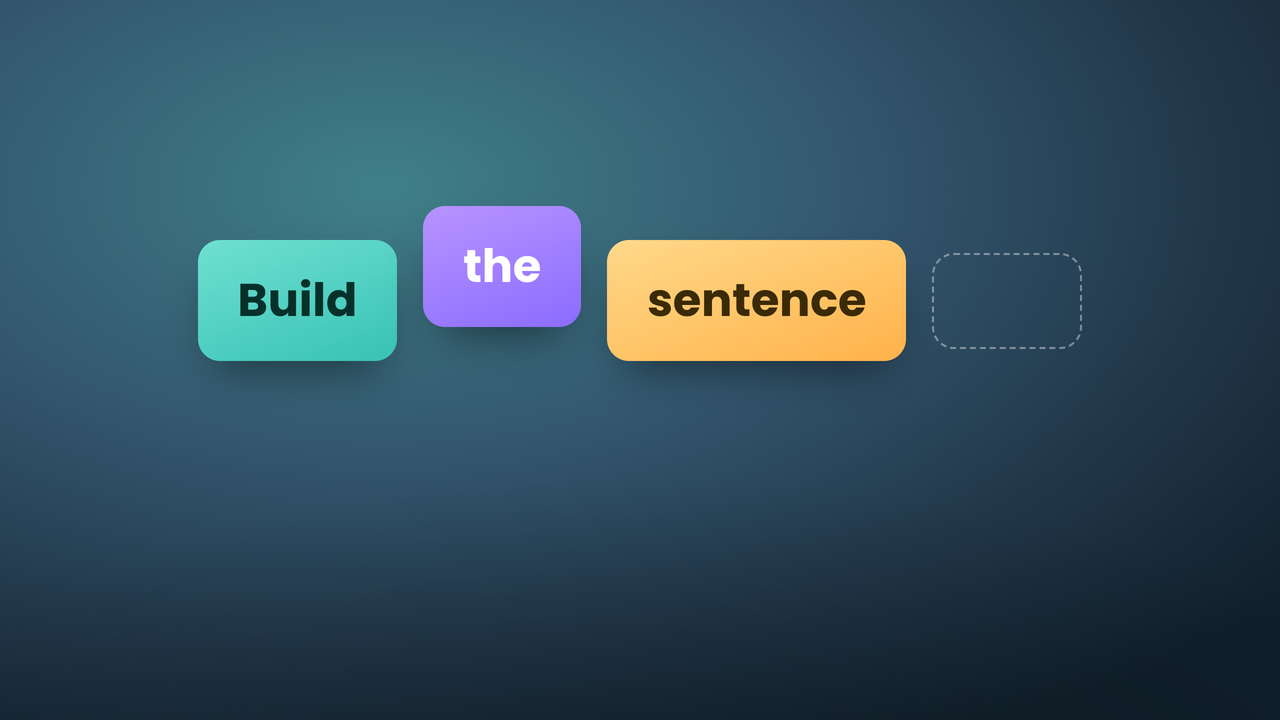
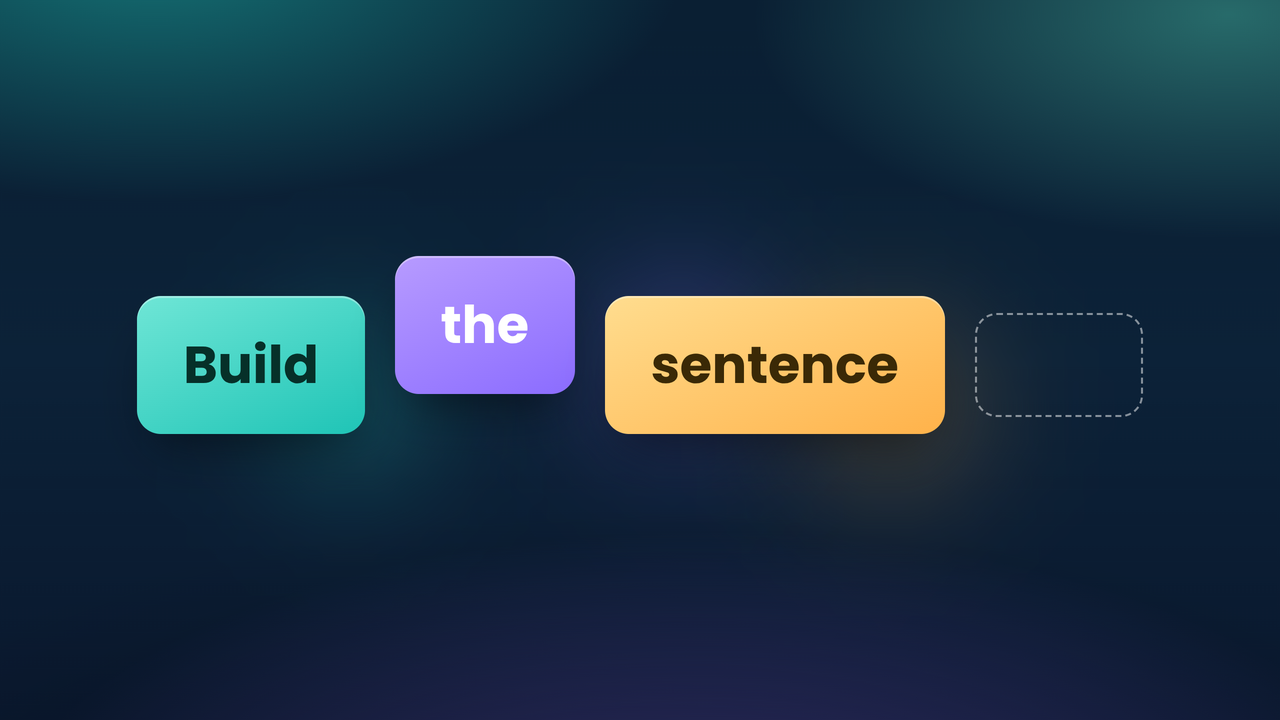
style(arcade): refresh Story Unlock & Sentence Builder — drifting aurora, elevated glass, color-coded chips + new covers

diff --git a/games/sentence-builder/index.html b/games/sentence-builder/index.html
@@ -12,7 +12,7 @@
 <link href="https://api.fontshare.com/v2/css?f[]=clash-display@600,700&f[]=general-sans@400,500,600&display=swap" rel="stylesheet">
 <style>
   :root{
-    --space:#061714; --ink:#eafcf7; --soft:#9fd0c6;
+    --space:#0a1226; --ink:#eafcf7; --soft:#9fd0c6;
     --pink:#f6479a; --coral:#ff8a63; --purple:#8b6cff; --teal:#1fc4b6; --mint:#57e6c4; --amber:#ffcd46;
     --glass:rgba(255,255,255,.07); --line:rgba(255,255,255,.14);
     --display:'Clash Display',system-ui,sans-serif; --body:'General Sans',system-ui,sans-serif;
@@ -20,11 +20,19 @@
   *{box-sizing:border-box}
   html,body{margin:0;height:100%}
   body{font-family:var(--body);color:var(--ink);background:var(--space);overflow-x:hidden;-webkit-tap-highlight-color:transparent}
-  #stagebg{position:fixed;inset:0;z-index:-1;background:
-    radial-gradient(110% 70% at 14% 2%, rgba(31,196,182,.24), transparent 56%),
-    radial-gradient(90% 70% at 92% 4%, rgba(87,230,196,.16), transparent 58%),
-    radial-gradient(80% 60% at 60% 104%, rgba(139,108,255,.18), transparent 66%),
-    linear-gradient(180deg,#06160f 0%,#0a241d 54%,#0c2a26 100%)}
+  #stagebg{position:fixed;inset:0;z-index:-1;overflow:hidden;background:
+    radial-gradient(80% 60% at 10% -6%, rgba(31,196,182,.40), transparent 60%),
+    radial-gradient(70% 56% at 96% 4%, rgba(87,230,196,.28), transparent 60%),
+    radial-gradient(92% 70% at 52% 114%, rgba(139,108,255,.26), transparent 66%),
+    radial-gradient(58% 50% at 82% 94%, rgba(77,139,255,.22), transparent 60%),
+    linear-gradient(180deg,#08152c 0%,#0a1f30 50%,#08152a 100%)}
+  #stagebg::before{content:"";position:absolute;inset:-25%;pointer-events:none;
+    background:
+      radial-gradient(38% 38% at 30% 32%, rgba(31,196,182,.32), transparent 62%),
+      radial-gradient(34% 34% at 72% 58%, rgba(87,230,196,.22), transparent 62%),
+      radial-gradient(34% 34% at 54% 82%, rgba(139,108,255,.22), transparent 62%);
+    filter:blur(44px);animation:aurora 30s ease-in-out infinite alternate}
+  @keyframes aurora{from{transform:translate3d(-3%,-2%,0) rotate(0deg) scale(1.06)}to{transform:translate3d(3%,2%,0) rotate(7deg) scale(1.14)}}
   .wrap{max-width:860px;margin:0 auto;padding:14px 18px 60px;min-height:100%}
   .bar{display:flex;align-items:center;gap:12px;justify-content:space-between;padding:6px 2px 14px}
   .bar .left{display:flex;align-items:center;gap:12px;min-width:0}
@@ -49,25 +57,26 @@
   .dot.done{background:var(--teal)}
   .dot.cur{background:var(--amber);box-shadow:0 0 0 4px rgba(255,205,70,.18)}
 
-  .card{background:rgba(255,255,255,.05);border:1px solid var(--line);border-radius:24px;padding:26px 22px;backdrop-filter:blur(10px);
-    box-shadow:0 30px 70px -30px rgba(0,0,0,.7);max-width:720px;margin:0 auto}
+  .card{background:linear-gradient(180deg,rgba(255,255,255,.09),rgba(255,255,255,.035));border:1px solid rgba(255,255,255,.16);border-radius:26px;padding:26px 22px;backdrop-filter:blur(16px) saturate(1.15);
+    box-shadow:0 36px 90px -36px rgba(0,0,0,.72),0 22px 60px -42px color-mix(in srgb,var(--accent,#1fc4b6) 55%, transparent),inset 0 1px 0 rgba(255,255,255,.2);max-width:720px;margin:0 auto}
   .hint{text-align:center;color:var(--soft);font-size:14px;margin:0 0 16px}
-  .hint b{color:#fff;background:rgba(31,196,182,.18);border:1px solid rgba(31,196,182,.45);padding:3px 11px;border-radius:999px;font-family:var(--display);font-weight:700;white-space:nowrap}
+  .hint b{color:#fff;background:color-mix(in srgb,var(--accent,#1fc4b6) 22%, transparent);border:1px solid color-mix(in srgb,var(--accent,#1fc4b6) 55%, transparent);padding:3px 11px;border-radius:999px;font-family:var(--display);font-weight:700;white-space:nowrap}
 
-  .tray{min-height:78px;border:2px dashed var(--line);border-radius:18px;padding:14px;display:flex;flex-wrap:wrap;gap:10px;
-    align-items:center;justify-content:center;background:rgba(0,0,0,.16);transition:border-color .2s}
-  .tray.has{border-style:solid;border-color:rgba(31,196,182,.4)}
+  .tray{min-height:78px;border:2px dashed color-mix(in srgb,var(--accent,#1fc4b6) 30%, rgba(255,255,255,.16));border-radius:18px;padding:14px;display:flex;flex-wrap:wrap;gap:10px;
+    align-items:center;justify-content:center;background:rgba(4,8,20,.28);transition:border-color .2s}
+  .tray.has{border-style:solid;border-color:color-mix(in srgb,var(--accent,#1fc4b6) 55%, transparent)}
   .tray .ph{color:var(--soft);font-size:14px;opacity:.8}
   .tray.flash-bad{animation:shake .4s}
 
   .bank{display:flex;flex-wrap:wrap;gap:10px;justify-content:center;margin:18px auto 0;max-width:720px;min-height:50px}
 
   .chip{appearance:none;cursor:pointer;font-family:var(--display);font-weight:700;font-size:clamp(15px,3.6vw,18px);
-    padding:11px 16px;border-radius:14px;color:#fff;background:rgba(255,255,255,.08);border:1.5px solid var(--line);
-    box-shadow:0 8px 18px -12px rgba(0,0,0,.6);transition:transform .12s,background .15s,border-color .15s,opacity .12s}
-  .chip:hover{transform:translateY(-2px)}
+    padding:11px 16px;border-radius:14px;color:#fff;background:rgba(31,196,182,.26);border:1.5px solid rgba(255,255,255,.28);border:1.5px solid color-mix(in srgb,var(--accent,#1fc4b6) 55%, transparent);
+    background:linear-gradient(160deg,color-mix(in srgb,var(--accent,#1fc4b6) 34%, transparent),color-mix(in srgb,var(--accent,#1fc4b6) 12%, transparent));
+    box-shadow:0 10px 22px -14px color-mix(in srgb,var(--accent,#1fc4b6) 75%, transparent),inset 0 1px 0 rgba(255,255,255,.22);transition:transform .12s,background .15s,border-color .15s,opacity .12s}
+  .chip:hover{transform:translateY(-2px);background:linear-gradient(160deg,color-mix(in srgb,var(--accent,#1fc4b6) 48%, transparent),color-mix(in srgb,var(--accent,#1fc4b6) 20%, transparent))}
   .chip:active{transform:translateY(0)}
-  .tray .chip{border-color:rgba(255,255,255,.28)}
+  .tray .chip{border-color:color-mix(in srgb,var(--accent,#1fc4b6) 70%, transparent)}
   .chip.right{color:#06201b;border-color:transparent}
   .chip.wrong{animation:shake .4s;border-color:#ff6b6b}
   @keyframes shake{0%,100%{transform:translateX(0)}25%{transform:translateX(-6px)}75%{transform:translateX(6px)}}
@@ -106,7 +115,7 @@
   .again a,.again button{font:inherit;font-weight:700;font-size:14px;border-radius:999px;padding:11px 20px;cursor:pointer;text-decoration:none}
   .again .pri{background:linear-gradient(135deg,var(--teal),var(--mint));color:#06201b;border:0}
   .again .sec{background:var(--glass);border:1px solid var(--line);color:var(--ink)}
-  @media(prefers-reduced-motion:reduce){.chip.wrong,.tray.flash-bad{animation:none}}
+  @media(prefers-reduced-motion:reduce){.chip.wrong,.tray.flash-bad{animation:none}#stagebg::before{animation:none}}
   @media(max-width:380px){.wrap{padding:12px 12px 52px}.card{padding:20px 14px}.prog{gap:7px}}
   .card.result{position:relative;z-index:60;text-align:center}
   .card .rk{font-family:var(--display);font-weight:700;font-size:clamp(22px,5vw,30px);color:var(--ink);line-height:1.08}
@@ -186,7 +195,7 @@ function renderRound(){
   $('#pRound').textContent=(idx+1)+'/'+sentences.length;
   $('#dots').innerHTML=sentences.map((_,k)=>`<span class="dot ${k<idx?'done':''} ${k===idx?'cur':''}"></span>`).join('');
   $('#game').innerHTML=`
-    <div class="card">
+    <div class="card" style="--accent:${roundColor}">
       <p class="hint">Build a sentence using <b>${esc(s.phrase)}</b></p>
       <div class="tray" id="tray"></div>
       <div class="bank" id="bank"></div>

diff --git a/games/story-unlock/index.html b/games/story-unlock/index.html
@@ -20,11 +20,19 @@
   *{box-sizing:border-box}
   html,body{margin:0;height:100%}
   body{font-family:var(--body);color:var(--ink);background:var(--space);overflow-x:hidden;-webkit-tap-highlight-color:transparent}
-  #stagebg{position:fixed;inset:0;z-index:-1;background:
-    radial-gradient(110% 70% at 14% 2%, rgba(139,108,255,.30), transparent 56%),
-    radial-gradient(90% 70% at 92% 4%, rgba(77,139,255,.20), transparent 58%),
-    radial-gradient(90% 60% at 50% 110%, rgba(246,71,154,.14), transparent 70%),
-    linear-gradient(180deg,#150b2e 0%,#1d1142 52%,#241a52 100%)}
+  #stagebg{position:fixed;inset:0;z-index:-1;overflow:hidden;background:
+    radial-gradient(78% 60% at 10% -6%, rgba(139,108,255,.42), transparent 60%),
+    radial-gradient(70% 56% at 96% 4%, rgba(246,71,154,.30), transparent 60%),
+    radial-gradient(95% 72% at 50% 114%, rgba(31,196,182,.22), transparent 66%),
+    radial-gradient(60% 52% at 82% 96%, rgba(77,139,255,.24), transparent 60%),
+    linear-gradient(180deg,#160a32 0%,#1c1142 50%,#140a30 100%)}
+  #stagebg::before{content:"";position:absolute;inset:-25%;pointer-events:none;
+    background:
+      radial-gradient(38% 38% at 30% 32%, rgba(139,108,255,.34), transparent 62%),
+      radial-gradient(34% 34% at 72% 58%, rgba(246,71,154,.24), transparent 62%),
+      radial-gradient(34% 34% at 54% 82%, rgba(31,196,182,.20), transparent 62%);
+    filter:blur(44px);animation:aurora 30s ease-in-out infinite alternate}
+  @keyframes aurora{from{transform:translate3d(-3%,-2%,0) rotate(0deg) scale(1.06)}to{transform:translate3d(3%,2%,0) rotate(7deg) scale(1.14)}}
   .wrap{max-width:820px;margin:0 auto;padding:14px 18px 60px;min-height:100%}
   .bar{display:flex;align-items:center;gap:12px;justify-content:space-between;padding:6px 2px 14px}
   .bar .left{display:flex;align-items:center;gap:12px;min-width:0}
@@ -45,12 +53,12 @@
   .pill{background:var(--glass);border:1px solid var(--line);border-radius:999px;padding:8px 15px;font-weight:600;font-size:14px;color:var(--soft)}
   .pill b{color:var(--ink);font-family:var(--display)}
 
-  .card{background:rgba(255,255,255,.05);border:1px solid var(--line);border-radius:24px;padding:30px 28px;backdrop-filter:blur(10px);
-    box-shadow:0 30px 70px -30px rgba(0,0,0,.7);max-width:680px;margin:0 auto;transition:box-shadow .5s,border-color .5s}
-  .card.unlocked{border-color:rgba(139,108,255,.5);box-shadow:0 30px 80px -26px rgba(139,108,255,.5)}
+  .card{background:linear-gradient(180deg,rgba(255,255,255,.09),rgba(255,255,255,.035));border:1px solid rgba(255,255,255,.16);border-radius:26px;padding:30px 28px;backdrop-filter:blur(16px) saturate(1.15);
+    box-shadow:0 36px 90px -36px rgba(0,0,0,.72),0 22px 60px -42px rgba(139,108,255,.55),inset 0 1px 0 rgba(255,255,255,.2);max-width:680px;margin:0 auto;transition:box-shadow .5s,border-color .5s}
+  .card.unlocked{border-color:rgba(139,108,255,.55);box-shadow:0 40px 100px -34px rgba(139,108,255,.5),inset 0 1px 0 rgba(255,255,255,.22)}
   .story{font-family:var(--display);font-weight:500;font-size:clamp(18px,3.4vw,23px);line-height:2.1;color:#efeaff;text-align:left}
 
-  .gap{appearance:none;border:0;background:none;cursor:default;font:inherit;font-family:var(--display);font-weight:700;
+  .gap{appearance:none;border:0;background:rgba(255,255,255,.06);cursor:default;font:inherit;font-family:var(--display);font-weight:700;
     display:inline-block;min-width:108px;text-align:center;color:transparent;border-bottom:3px solid rgba(255,255,255,.28);
     margin:0 3px;vertical-align:bottom;line-height:1.1;border-radius:8px;transition:background .25s,color .25s}
   .gap.target{border-bottom-color:var(--amber);box-shadow:0 6px 18px -8px rgba(255,205,70,.7);animation:pulse 1.5s ease-in-out infinite}
@@ -60,10 +68,10 @@
   .hintline{margin:16px auto 0;max-width:680px;text-align:center;color:var(--soft);font-size:13.5px}
   .bank{display:flex;flex-wrap:wrap;gap:12px;justify-content:center;margin:18px auto 0;max-width:680px}
   .chip{appearance:none;cursor:pointer;font-family:var(--display);font-weight:700;font-size:clamp(15px,3.6vw,18px);
-    padding:13px 20px;border-radius:16px;color:#fff;border:1px solid rgba(255,255,255,.28);
-    background:linear-gradient(135deg,rgba(139,108,255,.95),rgba(77,139,255,.9));
-    box-shadow:inset 0 1px 0 rgba(255,255,255,.4),0 10px 22px -10px rgba(0,0,0,.5);transition:transform .12s,opacity .25s}
-  .chip:hover{transform:translateY(-2px)}
+    padding:13px 20px;border-radius:16px;color:#fff;background:rgba(139,108,255,.28);border:1px solid rgba(255,255,255,.3);border:1px solid color-mix(in srgb,var(--c,#8b6cff) 62%, transparent);
+    background:linear-gradient(160deg,color-mix(in srgb,var(--c,#8b6cff) 46%, transparent),color-mix(in srgb,var(--c,#8b6cff) 16%, transparent));
+    box-shadow:inset 0 1px 0 rgba(255,255,255,.3),0 12px 26px -12px color-mix(in srgb,var(--c,#8b6cff) 78%, transparent);transition:transform .12s,box-shadow .2s,background .2s}
+  .chip:hover{transform:translateY(-2px);background:linear-gradient(160deg,color-mix(in srgb,var(--c,#8b6cff) 60%, transparent),color-mix(in srgb,var(--c,#8b6cff) 26%, transparent))}
   .chip.wrong{animation:shake .4s}
   .chip.used{opacity:.28;pointer-events:none;background:rgba(255,255,255,.12);border-color:transparent}
   @keyframes shake{0%,100%{transform:translateX(0)}25%{transform:translateX(-6px)}75%{transform:translateX(6px)}}
@@ -103,7 +111,7 @@
     background:linear-gradient(100deg,var(--purple),var(--mint),var(--amber));-webkit-background-clip:text;background-clip:text;color:transparent;
     filter:drop-shadow(0 6px 18px rgba(139,108,255,.4))}
   .nightbanner .small{color:var(--ink);font-size:15px;margin-top:8px;opacity:.95}
-  @media(prefers-reduced-motion:reduce){.chip.wrong{animation:none}.gap.target{animation:none}}
+  @media(prefers-reduced-motion:reduce){.chip.wrong{animation:none}.gap.target{animation:none}#stagebg::before{animation:none}}
   .gatehow{margin-top:14px;align-items:center;gap:8px;cursor:pointer;border:1px solid var(--line);background:var(--glass);color:var(--ink);font:inherit;font-weight:700;font-size:14px;padding:11px 18px;border-radius:999px}
   .gatehow:hover{border-color:rgba(255,255,255,.32)}
   .howbtn{align-items:center;justify-content:center;gap:8px;margin:14px auto 0;cursor:pointer;border:0;font:inherit;font-weight:700;font-size:14px;padding:10px 18px;border-radius:999px;color:#10121c;background:#fff;box-shadow:0 10px 26px -10px rgba(0,0,0,.55)}
@@ -276,7 +284,7 @@ function renderStory(){
 }
 function renderBank(){
   const ws=shuffle(GAPS.map(g=>g.w));
-  $('#bank').innerHTML=ws.map(w=>'<button class="chip" data-w="'+esc(w)+'">'+esc(w)+'</button>').join('');
+  $('#bank').innerHTML=ws.map(w=>'<button class="chip" data-w="'+esc(w)+'" style="--c:'+(byWord[w]||'#8b6cff')+'">'+esc(w)+'</button>').join('');
   $('#bank').querySelectorAll('.chip').forEach(b=>b.onclick=()=>attempt(b));
 }
 function firstEmpty(){return GAPS.findIndex(g=>!g.filled);}
